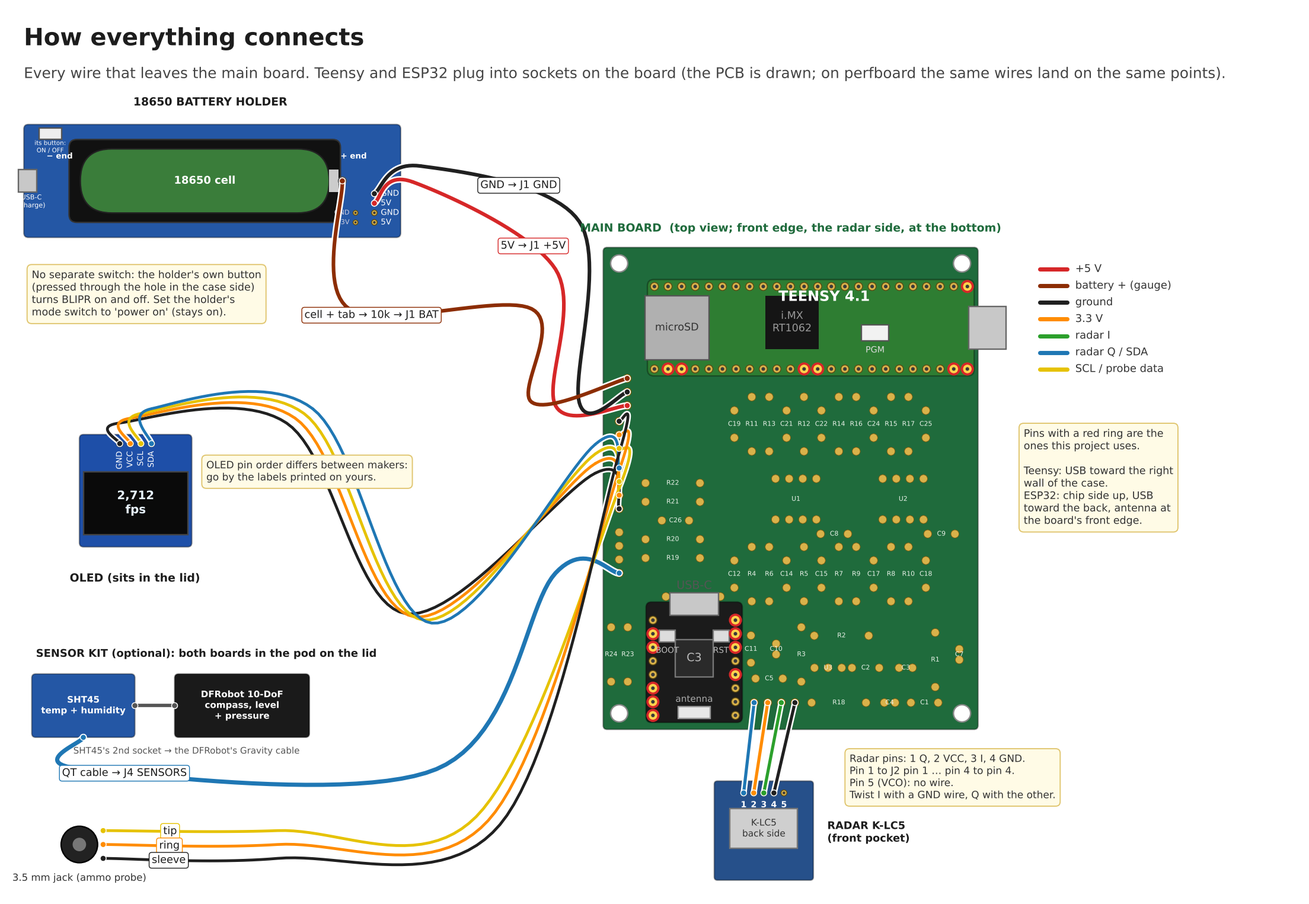
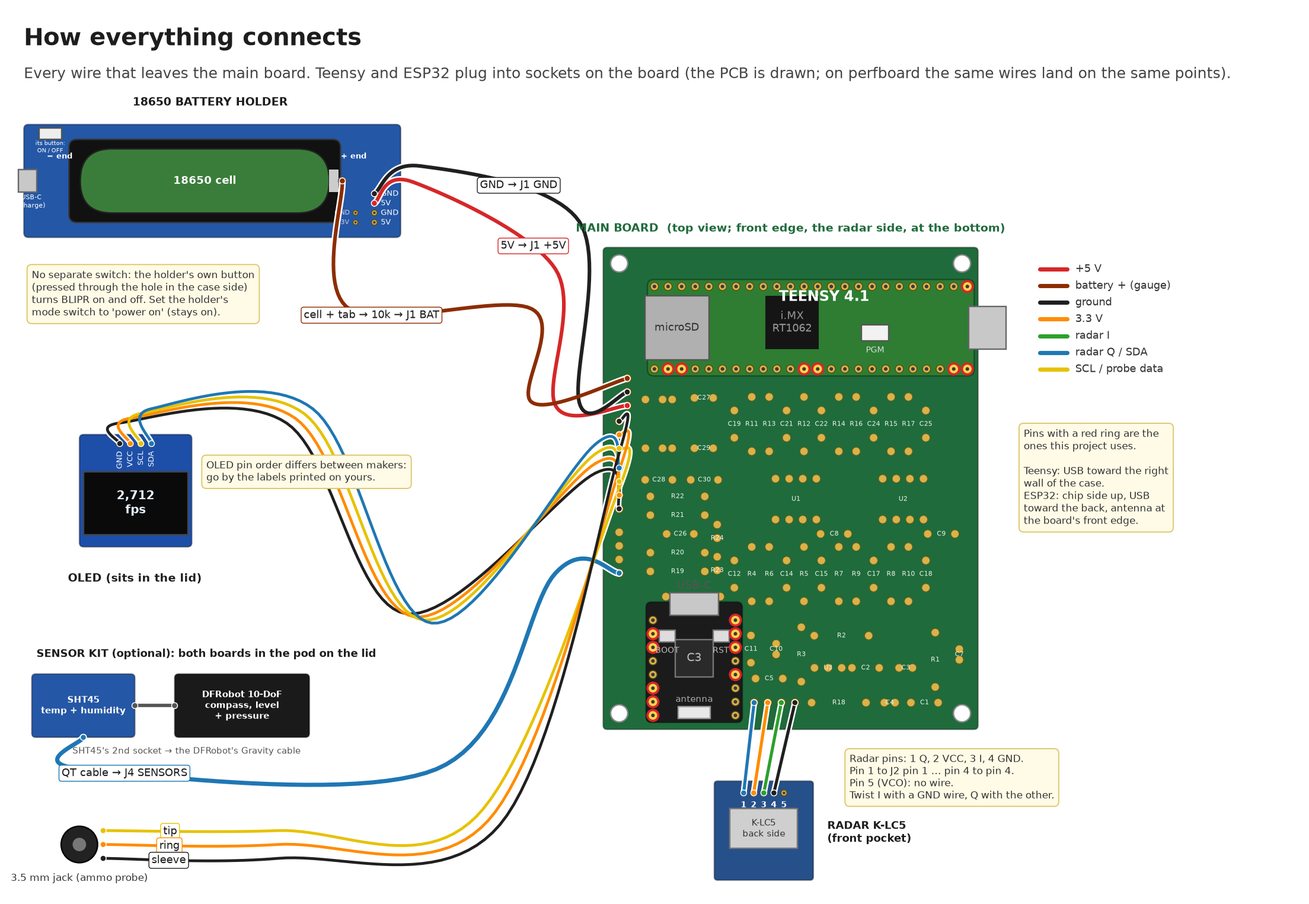
Assembly video rebuilt around circuit board v1.2: filter parts soldered on the board (L1/L2 three holes, C27-C30), R23/R24 standing, holder straight to J1, no pin cutting; v1.1 pointer; overview picture redrawn from the v1.2 design

diff --git a/tools/video/scenes.py b/tools/video/scenes.py
@@ -22,10 +22,10 @@ R_BY_VALUE = [("10 Ω", ["R1", "R18"]), ("100 Ω", ["R22"]), ("330 Ω", ["R10", 
               ("1 kΩ", ["R23", "R24"]), ("4.7 kΩ", ["R4", "R7", "R11", "R14", "R21"]),
               ("10 kΩ", ["R2", "R3", "R5", "R8", "R12", "R15"]), ("100 kΩ", ["R19", "R20"])]
 ALL_R = [r for _, rs in R_BY_VALUE for r in rs]
-CER = [("1 µF (105)", ["C1", "C2", "C14", "C17", "C21", "C24"]), ("100 nF (104)", ["C5", "C8", "C9", "C11", "C26"]),
+CER = [("1 µF (105)", ["C1", "C2", "C14", "C17", "C21", "C24", "C28", "C30"]), ("100 nF (104)", ["C5", "C8", "C9", "C11", "C26"]),
        ("10 nF (103)", ["C12", "C15", "C19", "C22"]), ("1 nF (102)", ["C18", "C25"])]
 ALL_CER = [r for _, rs in CER for r in rs]
-ELEC = ["C3", "C4", "C7", "C10"]
+ELEC = ["C3", "C4", "C7", "C10", "C27", "C29", "L1", "L2"]   # electrolytics, then the inductors (board v1.2)
 HDRS = ["J1", "J2", "J3", "J4"]
 
 DONE_R = [(0, -100, ALL_R + ["D1"], 0)]
@@ -136,11 +136,11 @@ def _plan(ctx, c, x, y, w, h):
 # ================================================================== 2. WHAT YOU NEED
 add("kit_modules", "kit", "Parts: the big pieces", [
     "Let's lay out everything you need. Start with the big pieces.",
-    "The main circuit board, version one point one. The RFbeam K-LC5 radar. Order the dash zero zero C version, which runs on three point three volts.",
+    "The main circuit board, version one point two. The RFbeam K-LC5 radar. Order the dash zero zero C version, which runs on three point three volts.",
     "A Teensy 4.1 with pins, and an ESP32-C3 SuperMini. Buy a pack of those: a spare is worth having.",
     "A 0.96 inch SSD1306 I2C OLED screen with four pins, the 18650 battery holder, a button-top 18650 cell, and a microSD card. A name-brand thirty-two gigabyte A1 card works well.",
 ], visual=items_view([
-    (PT.pcb_bare, {}, "pcb_bare", "Main board v1.1", "PCBWay, through-hole"),
+    (PT.pcb_bare, {}, "pcb_bare", "Main board v1.2", "PCBWay, through-hole"),
     (PT.radar, {"side": "front"}, "radar", "Radar K-LC5-RFB-00C", "3.3 V version"),
     (PT.teensy, {}, "teensy", "Teensy 4.1", "with pins"),
     (PT.esp32, {}, "esp32", "ESP32-C3 SuperMini", "buy a pack: spares"),
@@ -152,12 +152,12 @@ add("kit_modules", "kit", "Parts: the big pieces", [
 
 add("kit_small", "kit", "Parts: the small pieces", [
     "Next, the small parts. Everything solders into its own labelled holes.",
-    "Resistors and ceramic capacitors from assortment kits, and four electrolytic capacitors.",
+    "Resistors and ceramic capacitors from assortment kits, and four small electrolytic capacitors.",
     "Two MCP6022-E/P amplifier chips with two eight-pin sockets, an MCP1700-3302E regulator, the three point three volt version, and a 1N5817 diode.",
     "Female headers: two strips of twenty-four for the Teensy, two of eight for the ESP32, a one-by-five for the radar, and a one-by-four for J4.",
 ], visual=items_view([
     (PT.resistor, {"value": "4.7k"}, "resistor", "Resistors, 1/4 W", "24 on the board, +1 (R25) at the battery"),
-    (PT.ceramic, {"code": "104"}, "ceramic", "Ceramic capacitors", "17: 1 µF, 100 nF, 10 nF, 1 nF"),
+    (PT.ceramic, {"code": "104"}, "ceramic", "Ceramic capacitors", "19: 1 µF, 100 nF, 10 nF, 1 nF"),
     (PT.electrolytic_side, {}, "electrolytic_side", "Electrolytic capacitors", "3 × 10 µF, 1 × 100 µF (6.3 mm wide)"),
     (PT.opamp_chip, {}, "esp32", "MCP6022-E/P × 2", "plus 2 DIP-8 sockets"),
     (PT.to92, {}, "to92", "MCP1700-3302E", "3.3 V version, TO-92"),
@@ -167,16 +167,17 @@ add("kit_small", "kit", "Parts: the small pieces", [
 ], cols=4, line_map=[1, 1, 1, 2, 2, 2, 3, 3]), full=True)
 
 add("kit_filters", "kit", "Parts: the two 5 V filters", [
-    "Six more small parts make two noise filters. They go in the wires, not on the board.",
-    "Two twenty-two microhenry inductors, rated one amp or more. One goes in the battery holder's red wire, and one in the ESP32's own five volt feed.",
-    "And at each one, a four hundred and seventy microfarad electrolytic capacitor, ten volts or more, with a one microfarad ceramic beside it.",
+    "Six more small parts make two noise filters, and on this board they solder straight on, like everything else.",
+    "Two twenty-two microhenry inductors, rated one amp or more: the round drum type, up to eight point four millimetres across.",
+    "Two four hundred and seventy microfarad electrolytic capacitors, ten volts or more, eight millimetres across. And two more one microfarad ceramics.",
     "Without them, the battery holder's converter and the ESP32's radio both whisper into the radar through the five volt supply.",
+    "Building on an older version one point one board? Those filters go in the wires instead. The build guide's section, If you have a v1.1 board, shows how.",
 ], visual=items_view([
     (PT.inductor, {}, "inductor", "Inductor 22 µH × 2", "L1, L2 · 1 A or more"),
-    (PT.electrolytic_side, {"d": 8, "h": 12}, "electrolytic_side", "470 µF × 2", "C27, C29 · 10 V or more"),
+    (PT.electrolytic_side, {"d": 8, "h": 12}, "electrolytic_side", "470 µF × 2", "C27, C29 · 8 mm across"),
     (PT.ceramic, {"code": "105"}, "ceramic", "1 µF ceramic × 2", "C28, C30"),
-    (PT.heatshrink, {}, "heatshrink", "Heat-shrink", "on every joint"),
-], cols=4, line_map=[1, 2, 2, 2]), full=True)
+    (PT.pcb_bare, {}, "pcb_bare", "All on board v1.2", "v1.1: see the build guide"),
+], cols=4, line_map=[1, 2, 2, 4]), full=True)
 
 add("kit_hardware", "kit", "Parts: case hardware", [
     "For the case: the printed parts, eight M3 heat-set inserts, and one quarter-twenty insert for a tripod, nine millimetres long or shorter.",
@@ -273,7 +274,7 @@ add("board_tour", "board", "Meet the board", [
                      overlays=[{"at": 0, "kind": "tag", "xy": (35, 5), "text": "FRONT EDGE · radar side", "anchor": "c", "until": 1},
                                {"at": 3, "kind": "box", "xywh": (6.5, 66, 63, 18), "until": 4},
                                {"at": 3, "kind": "box", "xywh": (7, 0.5, 20, 23), "delay": 1.5, "until": 4}]),
-    notes=[(0, "Front edge = radar side"), (4, "*Order: resistors, diode, ceramics, sockets, regulator, electrolytics, headers")])
+    notes=[(0, "Front edge = radar side"), (4, "*Order: resistors, diode, ceramics, sockets, regulator, electrolytics, inductors, headers")])
 
 add("board_howto", "board", "How to solder a through-hole part", [
     "If you're new to soldering, here's the whole technique.",
@@ -338,12 +339,12 @@ add("board_r2", "board", "Resistors, part 2: power and the left side", [
     "Now the rest of the resistors.",
     "Ten ohm: R1 and R18, in the power area at the front. Brown, black, black.",
     "One hundred k: R19 and R20, for the battery gauge. Brown, black, yellow.",
-    "One k: R23 and R24, at the front-left corner. Brown, black, red.",
+    "One k: R23 and R24, at the front-left corner. Brown, black, red. These two stand on end: bend one leg back down beside the body, and stand the resistor over the hole inside its drawn square.",
     "R21, four point seven k, and R22, one hundred ohm, were for an ammo probe BLIPR no longer uses. Fit them anyway. They do no harm.",
-], visual=board_view(B, [(0, FULL), (1, (48, 12, 60)), (2, (15, 38, 50)), (3, (12, 14, 50)), (4, (15, 42, 50))],
+], visual=board_view(B, [(0, FULL), (1, (48, 12, 60)), (2, (15, 38, 50)), (3, (21, 31, 34)), (4, (15, 42, 50))],
                      place=DONE_R[:0] + [(0, -100, ["R4", "R7", "R11", "R14", "R6", "R9", "R13", "R16", "R2", "R3", "R5", "R8", "R12", "R15", "R10", "R17"], 0),
                                          (1, 0.8, ["R1", "R18"], 0.4), (2, 0.8, ["R19", "R20"], 0.4), (3, 0.8, ["R23", "R24"], 0.4), (4, 1.0, ["R21", "R22"], 0.4)]),
-    notes=[(1, "10 Ω: R1 R18"), (2, "100 kΩ: R19 R20"), (3, "1 kΩ: R23 R24"), (4, "4.7 kΩ: R21 · 100 Ω: R22")],
+    notes=[(1, "10 Ω: R1 R18"), (2, "100 kΩ: R19 R20"), (3, "1 kΩ: R23 R24, standing on end"), (4, "4.7 kΩ: R21 · 100 Ω: R22")],
     pause=6, do="Pause and solder these resistors")
 
 add("board_d1", "board", "The diode, D1", [
@@ -359,13 +360,13 @@ add("board_d1", "board", "The diode, D1", [
 
 add("board_cer", "board", "Ceramic capacitors", [
     "Now the small ceramic capacitors. These have no direction.",
-    "One microfarad, code one oh five: C1, C2, C14, C17, C21 and C24.",
+    "One microfarad, code one oh five: C1, C2, C14, C17, C21 and C24, plus C28 and C30 up by the filters.",
     "One hundred nanofarad, code one oh four: C5, C8, C9, C11 and C26.",
     "Ten nanofarad, code one oh three: C12, C15, C19 and C22.",
     "And one nanofarad, code one oh two: C18 and C25.",
 ], visual=board_view(B, [(0, FULL)],
                      place=[(0, -100, ALL_R + ["D1"], 0)] + [(i + 1, 0.8, refs, 0.3) for i, (_, refs) in enumerate(CER)]),
-    notes=[(1, "1 µF (105): C1 C2 C14 C17 C21 C24"), (2, "100 nF (104): C5 C8 C9 C11 C26"), (3, "10 nF (103): C12 C15 C19 C22"),
+    notes=[(1, "1 µF (105): C1 C2 C14 C17 C21 C24 C28 C30"), (2, "100 nF (104): C5 C8 C9 C11 C26"), (3, "10 nF (103): C12 C15 C19 C22"),
            (4, "1 nF (102): C18 C25")], pause=6, do="Pause and solder the ceramics")
 
 add("board_sockets", "board", "The two chip sockets", [
@@ -390,15 +391,34 @@ add("board_u3", "board", "The regulator, U3", [
     notes=[(1, "*Flat face → front edge"), (1, "Legs: GND · IN · OUT, left to right"), (2, "Spread the outer legs slightly")], pause=5, do="Pause and solder U3")
 
 add("board_elec", "board", "Electrolytic capacitors", [
-    "The four electrolytic capacitors are polarised. They only go in one way.",
+    "The six electrolytic capacitors are polarised. They only go in one way.",
     "The long leg is plus, and it goes in the square pad. The stripe on the can marks the minus side.",
     "Ten microfarad: C4, C7 and C10. One hundred microfarad: C3.",
+    "Then the two big ones for the filters, four hundred and seventy microfarads: C27 and C29, in the top-left corner beside J1. Same rule: plus leg in the square pad.",
     "Check every one before you solder. A capacitor in backwards can swell or pop.",
 ], visual=switch([(0, drawing(lambda ctx, c, x, y, w, h: DG.compare(ctx, c, x, y, w, h, DG.elec_panel(True), DG.elec_panel(False), line=0, line2=1))),
-                  (2, board_view(B, [(2, (48, 11, 50))], place=[(0, -100, ALL_R + ["D1"] + ALL_CER + ["U3"], 0), (2, 0.6, ["C4", "C7", "C10"], 0.4), (2, 2.4, ["C3"], 0)],
+                  (2, board_view(B, [(2, (48, 11, 50)), (3, (16, 57, 34))],
+                                 place=[(0, -100, ALL_R + ["D1"] + ALL_CER + ["U3"], 0), (2, 0.6, ["C4", "C7", "C10"], 0.4), (2, 2.4, ["C3"], 0),
+                                        (3, 1.2, ["C27", "C29"], 0.5)],
                                  sockets=DONE_SOCK)),
-                  (3, drawing(lambda ctx, c, x, y, w, h: DG.compare(ctx, c, x, y, w, h, DG.elec_panel(True), DG.elec_panel(False), line=0, line2=0)))]),
-    notes=[(1, "*Long leg (+) → square pad"), (1, "Stripe = minus"), (2, "10 µF: C4 C7 C10 · 100 µF: C3")], pause=5, do="Pause and solder the electrolytics")
+                  (4, drawing(lambda ctx, c, x, y, w, h: DG.compare(ctx, c, x, y, w, h, DG.elec_panel(True), DG.elec_panel(False), line=0, line2=0)))]),
+    notes=[(1, "*Long leg (+) → square pad"), (1, "Stripe = minus"), (2, "10 µF: C4 C7 C10 · 100 µF: C3"), (3, "470 µF: C27 C29, top left")],
+    pause=5, do="Pause and solder the electrolytics")
+
+add("board_inductors", "board", "The inductors, L1 and L2", [
+    "Next, the two inductors, L1 and L2, beside the big capacitors. They're the heart of the two noise filters.",
+    "They have no direction: either way round is fine.",
+    "Each one has three holes in a row. The two outer holes are five millimetres apart. The left and middle holes are three point two millimetres apart, for the smaller drums.",
+    "Use whichever pair fits your inductor's legs. The third hole stays empty. Push it down flat, and solder.",
+], visual=board_view(B, [(0, (16, 57, 34)), (2, (12, 57, 26)), (3, (16, 57, 34))],
+                     place=[(0, -100, ALL_R + ["D1"] + ALL_CER + ["U3", "C3", "C4", "C7", "C10", "C27", "C29"], 0), (3, 1.0, ["L1", "L2"], 0.5)],
+                     sockets=DONE_SOCK,
+                     overlays=[{"at": 2, "kind": "ring", "xy": (7.9, 61.6), "r": 26, "until": 3}, {"at": 2, "kind": "ring", "xy": (12.9, 61.6), "r": 26, "until": 3},
+                               {"at": 2, "kind": "tag", "xy": (10.4, 58.8), "text": "outer pair: 5 mm", "anchor": "c", "until": 3},
+                               {"at": 2, "kind": "ring", "xy": (7.9, 52.5), "r": 26, "delay": 1.2, "until": 3}, {"at": 2, "kind": "ring", "xy": (11.1, 52.5), "r": 26, "delay": 1.2, "until": 3},
+                               {"at": 2, "kind": "tag", "xy": (10.4, 49.9), "text": "left + middle: 3.2 mm", "anchor": "c", "delay": 1.2, "until": 3}]),
+    notes=[(0, "L1, L2: 22 µH, 1 A or more"), (1, "Either way round"), (2, "Three holes: 5 mm or 3.2 mm apart"), (3, "*Use the pair that fits; push down flat")],
+    pause=5, do="Pause and solder L1 and L2")
 
 add("board_headers", "board", "Headers J1 to J4", [
     "Next, the connectors along the left side and the front.",
@@ -452,7 +472,7 @@ add("power_holder", "power", "Wire the battery holder", [
     "Time for power. The battery holder has its own button, and that button is BLIPR's on and off switch.",
     "Before you solder anything, put the cell in, turn the holder on, and meter its pads. The red probe on the five volt pad must read plus five, not minus five.",
     "Nothing on the board protects against those two swapped. Then take the cell out.",
-    "With no cell in the holder, solder a red wire to its five volt pad and a black wire to its ground pad. They go to J1 plus five volts and J1 ground. The red one gets a small filter on the way, in a moment.",
+    "With no cell in the holder, solder a red wire to its five volt pad and a black wire to its ground pad. They go straight to J1 plus five volts and J1 ground. The holder's noise filter is already on the board, right beside J1.",
     "Now the battery gauge. Tin the holder's plus end tab, and quickly solder one leg of a ten k resistor, R25, straight onto it. Cover it with heat-shrink.",
     "Solder a wire to R25's other leg. Brown in our pictures. It goes to J1 BAT. With the resistor right at the tab, a nicked wire can't short the cell.",
     "Set the holder's mode switch to power on. About ten centimetres of wire reaches from the holder to the board.",
@@ -460,15 +480,6 @@ add("power_holder", "power", "Wire the battery holder", [
     notes=[(1, "!First: meter its pads, +5 V not −5 V"), (2, "Then cell out while soldering"), (3, "Red: 5V pad → J1 +5V"), (3, "Black: GND pad → J1 GND"),
            (4, "R25 (10 kΩ) soldered on the + tab, heat-shrink"), (5, "R25 → J1 BAT"), (6, "Mode switch: power on")],
     pause=6, do="Pause and wire the holder")
-
-add("power_filter", "power", "The battery holder's 5 V filter", [
-    "Now the filter in that red wire. The holder makes its five volts with a tiny switching converter, and the radar can hear it whistle.",
-    "Cut the red wire and put L1, the twenty-two microhenry inductor, in the gap. It goes either way round.",
-    "At the board end, solder C27, four hundred and seventy microfarads, across J1's plus five volts and ground. Stripe to ground. Put C28, the one microfarad ceramic, right beside it.",
-    "Keep the red and black wires side by side, and heat-shrink every joint.",
-], visual=image_view(PIC + "power_filter.png"),
-    notes=[(1, "L1 22 µH in the red wire"), (1, "Either way round"), (2, "C27 470 µF: stripe to GND"), (2, "C28 1 µF beside it"),
-           (2, "*Capacitors on the board side, close to J1"), (3, "Heat-shrink every joint")], pause=6, do="Pause and fit the filter")
 
 add("power_check1", "power", "Checkpoint 1: power rails", [
     "Checkpoint one. The chips and modules are still out.",
@@ -644,29 +655,18 @@ add("fw_teensy", "firmware", "Load the Teensy", [
            (3, "*stat → overruns 0"), (4, "set fs=500000, then reboot")], pause=5, do="Pause and load the Teensy")
 
 add("fw_esp", "firmware", "Load the ESP32", [
-    "Now the ESP32. Take it out of BLIPR's socket and plug its USB into the computer. Open BliprBLE dot I N O in a second IDE window, so each board keeps its own Serial Monitor.",
+    "Now the ESP32. Plug a USB-C data cable into it. Open BliprBLE dot I N O in a second IDE window, so each board keeps its own Serial Monitor.",
     "Choose the Nologo ESP32C3 Super Mini board, with USB CDC On Boot enabled, and its port.",
     "Click Upload. If it can't connect, hold the BOOT button, tap RESET, let go of BOOT, and upload again.",
     "When it's done, tap RESET. The Serial Monitor shows the ESP32 firmware version, ready.",
-    "You only need the cable this once. After its filter goes on, the computer only sees the ESP32 when it's out of BLIPR, and Range Book updates it over Bluetooth in about thirty seconds.",
+    "You only need the cable this once. After this, Range Book updates the ESP32 over Bluetooth in about thirty seconds. If the computer ever can't see it while it's in BLIPR, take it out of its socket to flash it.",
 ], visual=switch([(0, drawing(lambda ctx, c, x, y, w, h: DG.ide(ctx, c, x, y, w, h, [
     (0, "Sketch", "BliprBLE.ino  (second window)"), (1, "Board", "Nologo ESP32C3 Super Mini"), (1, "USB CDC On Boot", "Enabled"),
-    (2, "Can't connect?", "hold BOOT, tap RESET, release")], intro="ESP32 out of BLIPR's socket\nUSB-C data cable into the ESP32"))),
+    (2, "Can't connect?", "hold BOOT, tap RESET, release")], intro="USB-C data cable into the ESP32"))),
     (3, drawing(lambda ctx, c, x, y, w, h: DG.serial(ctx, c, x, y, w, h, [(3, "BLIPR ESP32-C3 firmware 0.2.20 ready.", hexc("#9BE39B")),
                                                                               (3, "Sensors found: ...", None)])))]),
-    notes=[(0, "!ESP32 out of BLIPR for USB"), (1, "USB CDC On Boot: Enabled"), (2, "No connection? BOOT + tap RESET"), (4, "Later updates: Range Book, over Bluetooth")],
+    notes=[(1, "USB CDC On Boot: Enabled"), (2, "No connection? BOOT + tap RESET"), (4, "Later updates: Range Book, over Bluetooth")],
     pause=5, do="Pause and load the ESP32")
-
-add("fw_espfilter", "firmware", "The ESP32's own 5 V filter", [
-    "With its firmware on, the ESP32 gets its own filter. Its Bluetooth radio draws current in bursts, and those bursts reached the radar through the shared five volts.",
-    "Keep the module out of BLIPR. Hold it flat, and cut its five volt pin off just under the black plastic with flush cutters. Don't lever it. Nothing on the board is cut.",
-    "Solder L2, the second inductor, from the socket's five volt hole to the pin's stub on top of the module. A short header pin soldered to L2 pushes into the hole. Or solder it to D1's leg on the square-pad side.",
-    "Then C29, four hundred and seventy microfarads, stripe to ground, and C30, one microfarad, across the module's five volt stub and its ground pin, close in. Lay them flat so the lid clears them.",
-    "Beep test: the five volt stub to D1's square pad beeps, through L2. Five volts to ground must not beep. Then plug the ESP32 back in.",
-], visual=image_view(PIC + "esp_filter.png"),
-    notes=[(1, "Cut the module's 5V pin only"), (1, "!Hold it flat: don't lever it"), (2, "L2 22 µH: socket 5V hole → pin stub"),
-           (3, "C29 470 µF (stripe to GND) + C30 1 µF"), (3, "Lay them flat"), (4, "*5V stub → D1 square pad: beep"), (4, "!5V → GND: no beep")],
-    pause=6, do="Pause and fit the ESP32 filter")
 
 add("fw_phone", "firmware", "Talk to it from Range Book", [
     "Now let's see the two boards working together.",
@@ -935,14 +935,14 @@ add("trouble2", "trouble", "More fixes", [
 add("trouble3", "trouble", "Noise, and a few quirks", [
     "BLIPR's radar hears more than bullets. If it reads the same speed again and again, or reports shots nobody fired, look for a steady tone.",
     "On the Teensy, type live. Twice a second it shows the noise and the strongest line, with its speed. Type rec to record a tenth of a second and see what's in it.",
-    "Most tones come from switching converters or a lit screen. Check both five volt filters are fitted, the sample rate is five hundred thousand, and the window stays clear of the tone's speed.",
+    "Most tones come from switching converters or a lit screen. Check the five volt filter parts are all in, the sample rate is five hundred thousand, and the window stays clear of the tone's speed.",
     "If the holder's button won't turn BLIPR on after a night on the charger, take the cell out, put it back, and press the button.",
-    "And if the computer can't see the ESP32 while it's in BLIPR, that's normal with its filter: take it out to flash it, or update it over Bluetooth.",
+    "And if a Bluetooth update stops partway, keep the phone close with its screen on, and try again. Nothing changes until the whole file has arrived.",
 ], visual=drawing(lambda ctx, c, x, y, w, h: DG.trouble(ctx, c, x + 10, y + 10, w - 20, h - 20, [
     (0, "Same speed every time, or false shots", "A steady tone: type live (strongest line) or rec on the Teensy"),
-    (2, "Where tones come from", "Converters, a lit screen: both 5 V filters · fs=500000 · window clear of the line"),
+    (2, "Where tones come from", "Converters, a lit screen: filters fitted · fs=500000 · window clear of the line"),
     (3, "Button won't switch on after charging", "Take the cell out, put it back, press the button"),
-    (4, "Computer can't see the ESP32 in BLIPR", "Normal with its filter: flash it out of the socket, or over Bluetooth")]), BG), full=True)
+    (4, "Bluetooth update stops partway", "Phone close, screen on, try again: nothing changes until it's all arrived")]), BG), full=True)
 
 add("outro", "intro", "You built BLIPR", [
     "That's it. You've built BLIPR.",

diff --git a/tools/video/board.py b/tools/video/board.py
@@ -1,4 +1,4 @@
-"""The v1.1 main board, drawn from pcb/design.py (exact part positions), with parts that can be 'soldered in'."""
+"""The main board (v1.2), drawn from pcb/design.py (exact part positions), with parts that can be 'soldered in'."""
 import os as _os
 REPO = _os.path.abspath(_os.path.join(_os.path.dirname(_os.path.abspath(__file__)), "..", ".."))
 BUILD = _os.environ.get("BLIPR_VIDEO_BUILD", _os.path.join(REPO, "tools", "video", "build"))
@@ -131,7 +131,7 @@ class Board:
             if lp:
                 txt = ref + ("\n" + pp["value"] if ref[0] in "RCD" else "")
                 self._text(ctx, txt, lp[0], lp[1], 0.78, LABEL, lp[2])
-        for ref, nm in (("J1", "J1 POWER"), ("J2", "J2 RADAR  Q VCC I GND"), ("J3", "J3 OLED"), ("J4", "J4 SENSORS"), ("J5", "J5 not used")):
+        for ref, nm in (("J1", "J1 POWER"), ("J2", "J2 RADAR  Q VCC I GND"), ("J3", "J3 OLED"), ("J4", "J4 SENSORS")):   # J5 unlabelled: not used
             pp = D.P[ref]
             n = len(pp["fp"]["pads"])
             if ref == "J2":
@@ -166,7 +166,19 @@ class Board:
         ctx.push_group()
         self._enter(ctx, pp["x"], pp["y"], k)
         ctx.rotate(math.radians(pp["rot"]))
-        if ref.startswith("R"):
+        if fp.get("hairpin"):
+            # resistor standing on end over pad 1, its other lead bent down into pad 2 (top view)
+            setc(ctx, PT.LEAD); ctx.set_line_width(0.5); ctx.move_to(0, 0); ctx.line_to(2.54, 0); ctx.stroke()
+            setc(ctx, PT.BODY_BEIGE); ctx.arc(0, 0, 1.25, 0, 2 * math.pi); ctx.fill()
+            setc(ctx, hexc("#7A3E12")); ctx.set_line_width(0.3); ctx.arc(0, 0, 0.85, 0, 2 * math.pi); ctx.stroke()
+            setc(ctx, PT.LEAD); ctx.arc(0, 0, 0.35, 0, 2 * math.pi); ctx.fill()
+        elif ref.startswith("L"):
+            # small drum inductor (6.7 mm, leads 3.2 mm apart) in holes 1 and 3, seen from above
+            ctx.translate(-0.9, 0)
+            setc(ctx, hexc("#2D3036")); ctx.arc(0, 0, 3.35, 0, 2 * math.pi); ctx.fill()
+            setc(ctx, hexc("#B8642A")); ctx.set_line_width(0.5); ctx.arc(0, 0, 2.7, 0, 2 * math.pi); ctx.stroke()
+            setc(ctx, hexc("#45494F")); ctx.arc(0, 0, 1.6, 0, 2 * math.pi); ctx.fill()
+        elif ref.startswith("R"):
             pitch = 10.16
             PT.resistor(ctx, VAL_TO_CODE.get(pp["value"], "10k"), lead=pitch / 2 - 3.15)
         elif ref == "D1":

diff --git a/tools/video/diagrams.py b/tools/video/diagrams.py
@@ -82,7 +82,7 @@ def title(ctx, c, x, y, w, h, sub="Assembly, step by step", hero="turn_0119"):
     b = ramp(c.t, 0.8, 0.8)
     setc(ctx, FOCUS, b); ctx.rectangle(x + 60, y + 470, 120 * b, 6); ctx.fill()
     text(ctx, sub, x + 60, y + 540, 44, INK, weight="semi", alpha=b)
-    text(ctx, "Circuit board v1.1  ·  Case v0.12  ·  Firmware 0.2.8 / 0.2.20", x + 60, y + 600, 26, INK2, alpha=b)
+    text(ctx, "Circuit board v1.2  ·  Case v0.12  ·  Firmware 0.2.8 / 0.2.20", x + 60, y + 600, 26, INK2, alpha=b)
 
 
 # ------------------------------------------------------------------ bench top view

diff --git a/tools/video/parts.py b/tools/video/parts.py
@@ -346,7 +346,7 @@ def pcb_bare(ctx):
     for i in range(24):
         for y in (-37.5, -22.3):
             ctx.arc(-29 + i * 2.54, y, 0.7, 0, 2 * math.pi); ctx.fill()
-    font(ctx, 3.0, True); setc(ctx, hexc("#FFE680")); ctx.move_to(-16, 10); ctx.show_text("RB BLIPR v1.1")
+    font(ctx, 3.0, True); setc(ctx, hexc("#FFE680")); ctx.move_to(-16, 10); ctx.show_text("RB BLIPR v1.2")
 SIZE["pcb_bare"] = (72, 92)
 
 

diff --git a/tools/video/README.md b/tools/video/README.md
@@ -1,12 +1,15 @@
 # BLIPR assembly video
 
-Scripts that make the narrated, step-by-step assembly video (about 39 minutes, 1080p) straight from the design
+Scripts that make the narrated, step-by-step assembly video (about 38 minutes, 1080p) straight from the design
 files in this repo: the board drawings come from `pcb/design.py`, the 3D case views from the STL files in
 `case/out/`, and the wiring pictures and screen animations from `pictures/out/`. Change the design, re-run, and
 the video follows. The finished MP4 is not kept in git (too large for GitHub).
 
-Current version (Nov 26, 2026): circuit board v1.1, case v0.12, Teensy 0.2.8, ESP32 0.2.20, with both 5 V filters,
-the direct-wired screen, the dark-while-listening screen, and Sean's photos of the first build at the start and end.
+Current version (Nov 26, 2026): circuit board v1.2 (both 5 V filters on the board: L1/L2 with three holes, C27-C30,
+R23/R24 standing), case v0.12, Teensy 0.2.8, ESP32 0.2.20, the direct-wired screen and the dark-while-listening
+screen, with Sean's photos of the first build at the start and end. v1.1 boards: one line in the parts chapter points
+to the build guide's "If you have a v1.1 board" section. (`scenes_v12.py` is the older 2-minute add-on for the v1.1
+video; not needed with this one.)
 
 ## Chapters
 
@@ -14,22 +17,16 @@ the direct-wired screen, the dark-while-listening screen, and Sean's photos of t
 |---|---|
 | 0:00 | Welcome: what BLIPR does, exploded view of every part, the plan |
 | 1:29 | What you need: parts, the two 5 V filters, case hardware, tools, optional sensor kit |
-| 5:04 | Safety |
-| 5:41 | Get ready: sort parts, cut the Teensy's VIN–VUSB trace |
-| 6:52 | Circuit board: soldering, lowest parts first, ESP32 direction check |
-| 14:19 | Power checks: battery holder wiring and its 5 V filter, checkpoints 1 and 2 |
-| 18:08 | Wiring: radar pigtail, the screen (soldered wires, no header), checkpoint 3 |
-| 21:55 | Firmware: Arduino IDE, Teensy (fs=500000), ESP32 (out of its socket), the ESP32's 5 V filter, test shot from Range Book |
-| 26:24 | The case: printing, inserts, holder, radar, board, cover, screen, lid |
-| 30:58 | Sensor pod (optional) |
-| 32:59 | First test: power-up, level, dark means listening, compass, bench placement, speed window, first shot |
-| 36:44 | Troubleshooting, including noise and interference (`live`, `rec`) |
-
-**Board v1.2 add-on** (about 2 minutes, `scenes_v12.py`): the main video shows board v1.1 with the filters wired by hand.
-The add-on covers the three differences on v1.2: six filter parts on the board, R23/R24 standing, and the two steps to skip.
-Make it with `BLIPR_SCENES=scenes_v12 BLIPR_VIDEO_BUILD=build/v12 BLIPR_VIDEO_TTS=build/tts python3 make_video.py render`, then `join`.
-Note: `board.py` draws whatever `pcb/design.py` is now (v1.2), so re-rendering the main video's board scenes would show v1.2
-parts the narration doesn't mention.
+| 5:14 | Safety |
+| 5:51 | Get ready: sort parts, cut the Teensy's VIN–VUSB trace |
+| 7:02 | Circuit board: soldering, lowest parts first, the filter parts (L1/L2, C27–C30), ESP32 direction check |
+| 15:30 | Power checks: battery holder straight to J1, checkpoints 1 and 2 |
+| 18:38 | Wiring: radar pigtail, the screen (soldered wires, no header), checkpoint 3 |
+| 22:25 | Firmware: Arduino IDE, Teensy (fs=500000), ESP32, test shot from Range Book |
+| 25:44 | The case: printing, inserts, holder, radar, board, cover, screen, lid |
+| 30:18 | Sensor pod (optional) |
+| 32:19 | First test: power-up, level, dark means listening, compass, bench placement, speed window, first shot |
+| 36:04 | Troubleshooting, including noise and interference (`live`, `rec`) |
 
 Every hands-on step ends with a "Pause and …" bar so a viewer can stop and do it.
 

diff --git a/README.md b/README.md
@@ -25,7 +25,7 @@ as more real shots come in.
   [docs/build_guide/](docs/build_guide/).
 - **Parts list with prices:** [docs/RB_BLIPR_Parts_List.xlsx](docs/RB_BLIPR_Parts_List.xlsx); the board's own list is
   `pcb/out/RBBLIPR_BOM.csv`.
-- **Assembly video:** a narrated, step-by-step build (about 39 minutes), coming to YouTube soon, with a 2-minute add-on for circuit board v1.2. Chapters and
+- **Assembly video:** a narrated, step-by-step build on circuit board v1.2 (about 38 minutes), coming to YouTube soon. Chapters and
   how it's made: [tools/video/README.md](tools/video/README.md).
 - **Circuit board:** upload `pcb/out/RBBLIPR_PCB_v1.2_gerbers.zip` to PCBWay (or JLCPCB, OSH Park, Aisler) with the
   standard settings; `pcb/README.txt` has the details and the soldering order.
